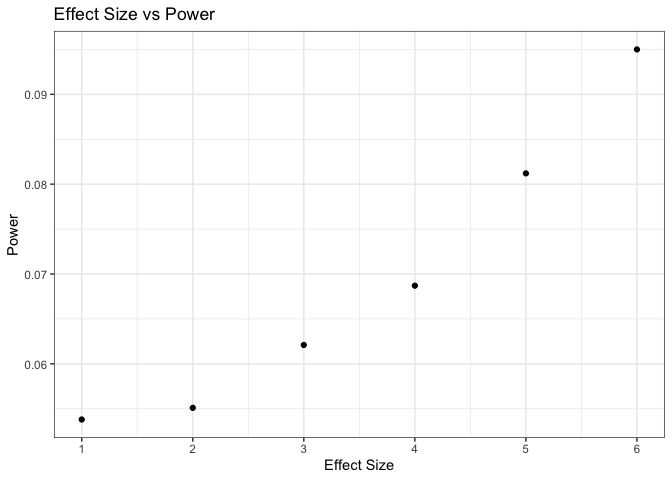
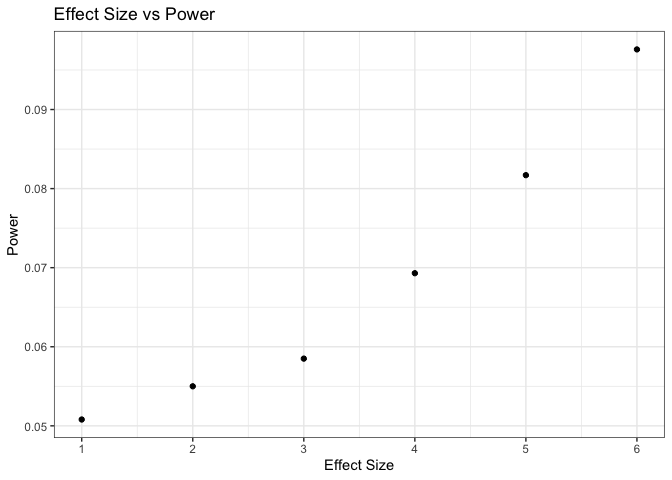
made plots for #3

diff --git a/p8105_hw5_at3343.md b/p8105_hw5_at3343.md
@@ -650,13 +650,13 @@ Now running the simulation:
 
 ``` r
 sim_results = 
-  rerun(100, sim_slr(n, beta_0 = 2, beta_1 = 0)) %>% 
+  rerun(10000, sim_slr(n, beta_0 = 2, beta_1 = 0)) %>% 
   bind_rows() 
 
 sim_results
 ```
 
-    ## # A tibble: 100 x 2
+    ## # A tibble: 10,000 x 2
     ##    beta_1_hat  p.value
     ##         <dbl>    <dbl>
     ##  1      14.3  0.207   
@@ -669,7 +669,7 @@ sim_results
     ##  8       2.34 0.769   
     ##  9       4.07 0.670   
     ## 10      17.0  0.134   
-    ## # … with 90 more rows
+    ## # … with 9,990 more rows
 
 Now re-running the simulation for beta\_1 values (1, 2, 3, 4, 5).
 
@@ -688,16 +688,16 @@ sim_results_2
     ## # A tibble: 60,000 x 3
     ##    beta_1 beta_1_hat p.value
     ##     <int>      <dbl>   <dbl>
-    ##  1      1      6.60   0.563 
-    ##  2      1     27.0    0.0146
-    ##  3      1     -9.42   0.432 
-    ##  4      1     -3.31   0.637 
-    ##  5      1     -0.136  0.993 
-    ##  6      1     23.7    0.0193
-    ##  7      1    -15.8    0.123 
-    ##  8      1     -8.35   0.294 
-    ##  9      1     -6.02   0.514 
-    ## 10      1      6.62   0.607 
+    ##  1      1      -5.45  0.560 
+    ##  2      1      15.9   0.0511
+    ##  3      1       6.75  0.401 
+    ##  4      1      15.3   0.0912
+    ##  5      1       8.50  0.249 
+    ##  6      1      -9.45  0.241 
+    ##  7      1       5.74  0.495 
+    ##  8      1      -7.80  0.504 
+    ##  9      1       2.58  0.799 
+    ## 10      1       2.56  0.767 
     ## # … with 59,990 more rows
 
 Plot of true beta\_1 vs proportion of times that the null was rejected.
@@ -725,4 +725,29 @@ sim_results_plot
 <img src="p8105_hw5_at3343_files/figure-gfm/unnamed-chunk-15-1.png" width="90%" />
 
 Based on the plot, as the effect size increases (i.e. as beta
-increases), the power also increases.
+increases), the power also increases. The association does not quite
+appear to be linear, possibly logarithmic. We note that the values for
+power are generally low, possibly owing to a small sample size.
+
+Going back to sim\_results\_2:
+
+``` r
+sim_results_2 %>% 
+  group_by(beta_1) %>% 
+  summarise(n = n(), beta_hat_mean = mean(beta_1_hat)) %>% 
+  ggplot(aes(x = beta_1, y = beta_hat_mean)) +
+  geom_point()
+```
+
+<img src="p8105_hw5_at3343_files/figure-gfm/unnamed-chunk-16-1.png" width="90%" />
+
+``` r
+sim_results_2 %>% 
+  filter(p.value < 0.05) %>% 
+  group_by(beta_1) %>% 
+  summarise(n = n(), beta_hat_mean = mean(beta_1_hat)) %>% 
+  ggplot(aes(x = beta_1, y = beta_hat_mean)) +
+  geom_point()
+```
+
+<img src="p8105_hw5_at3343_files/figure-gfm/unnamed-chunk-17-1.png" width="90%" />
